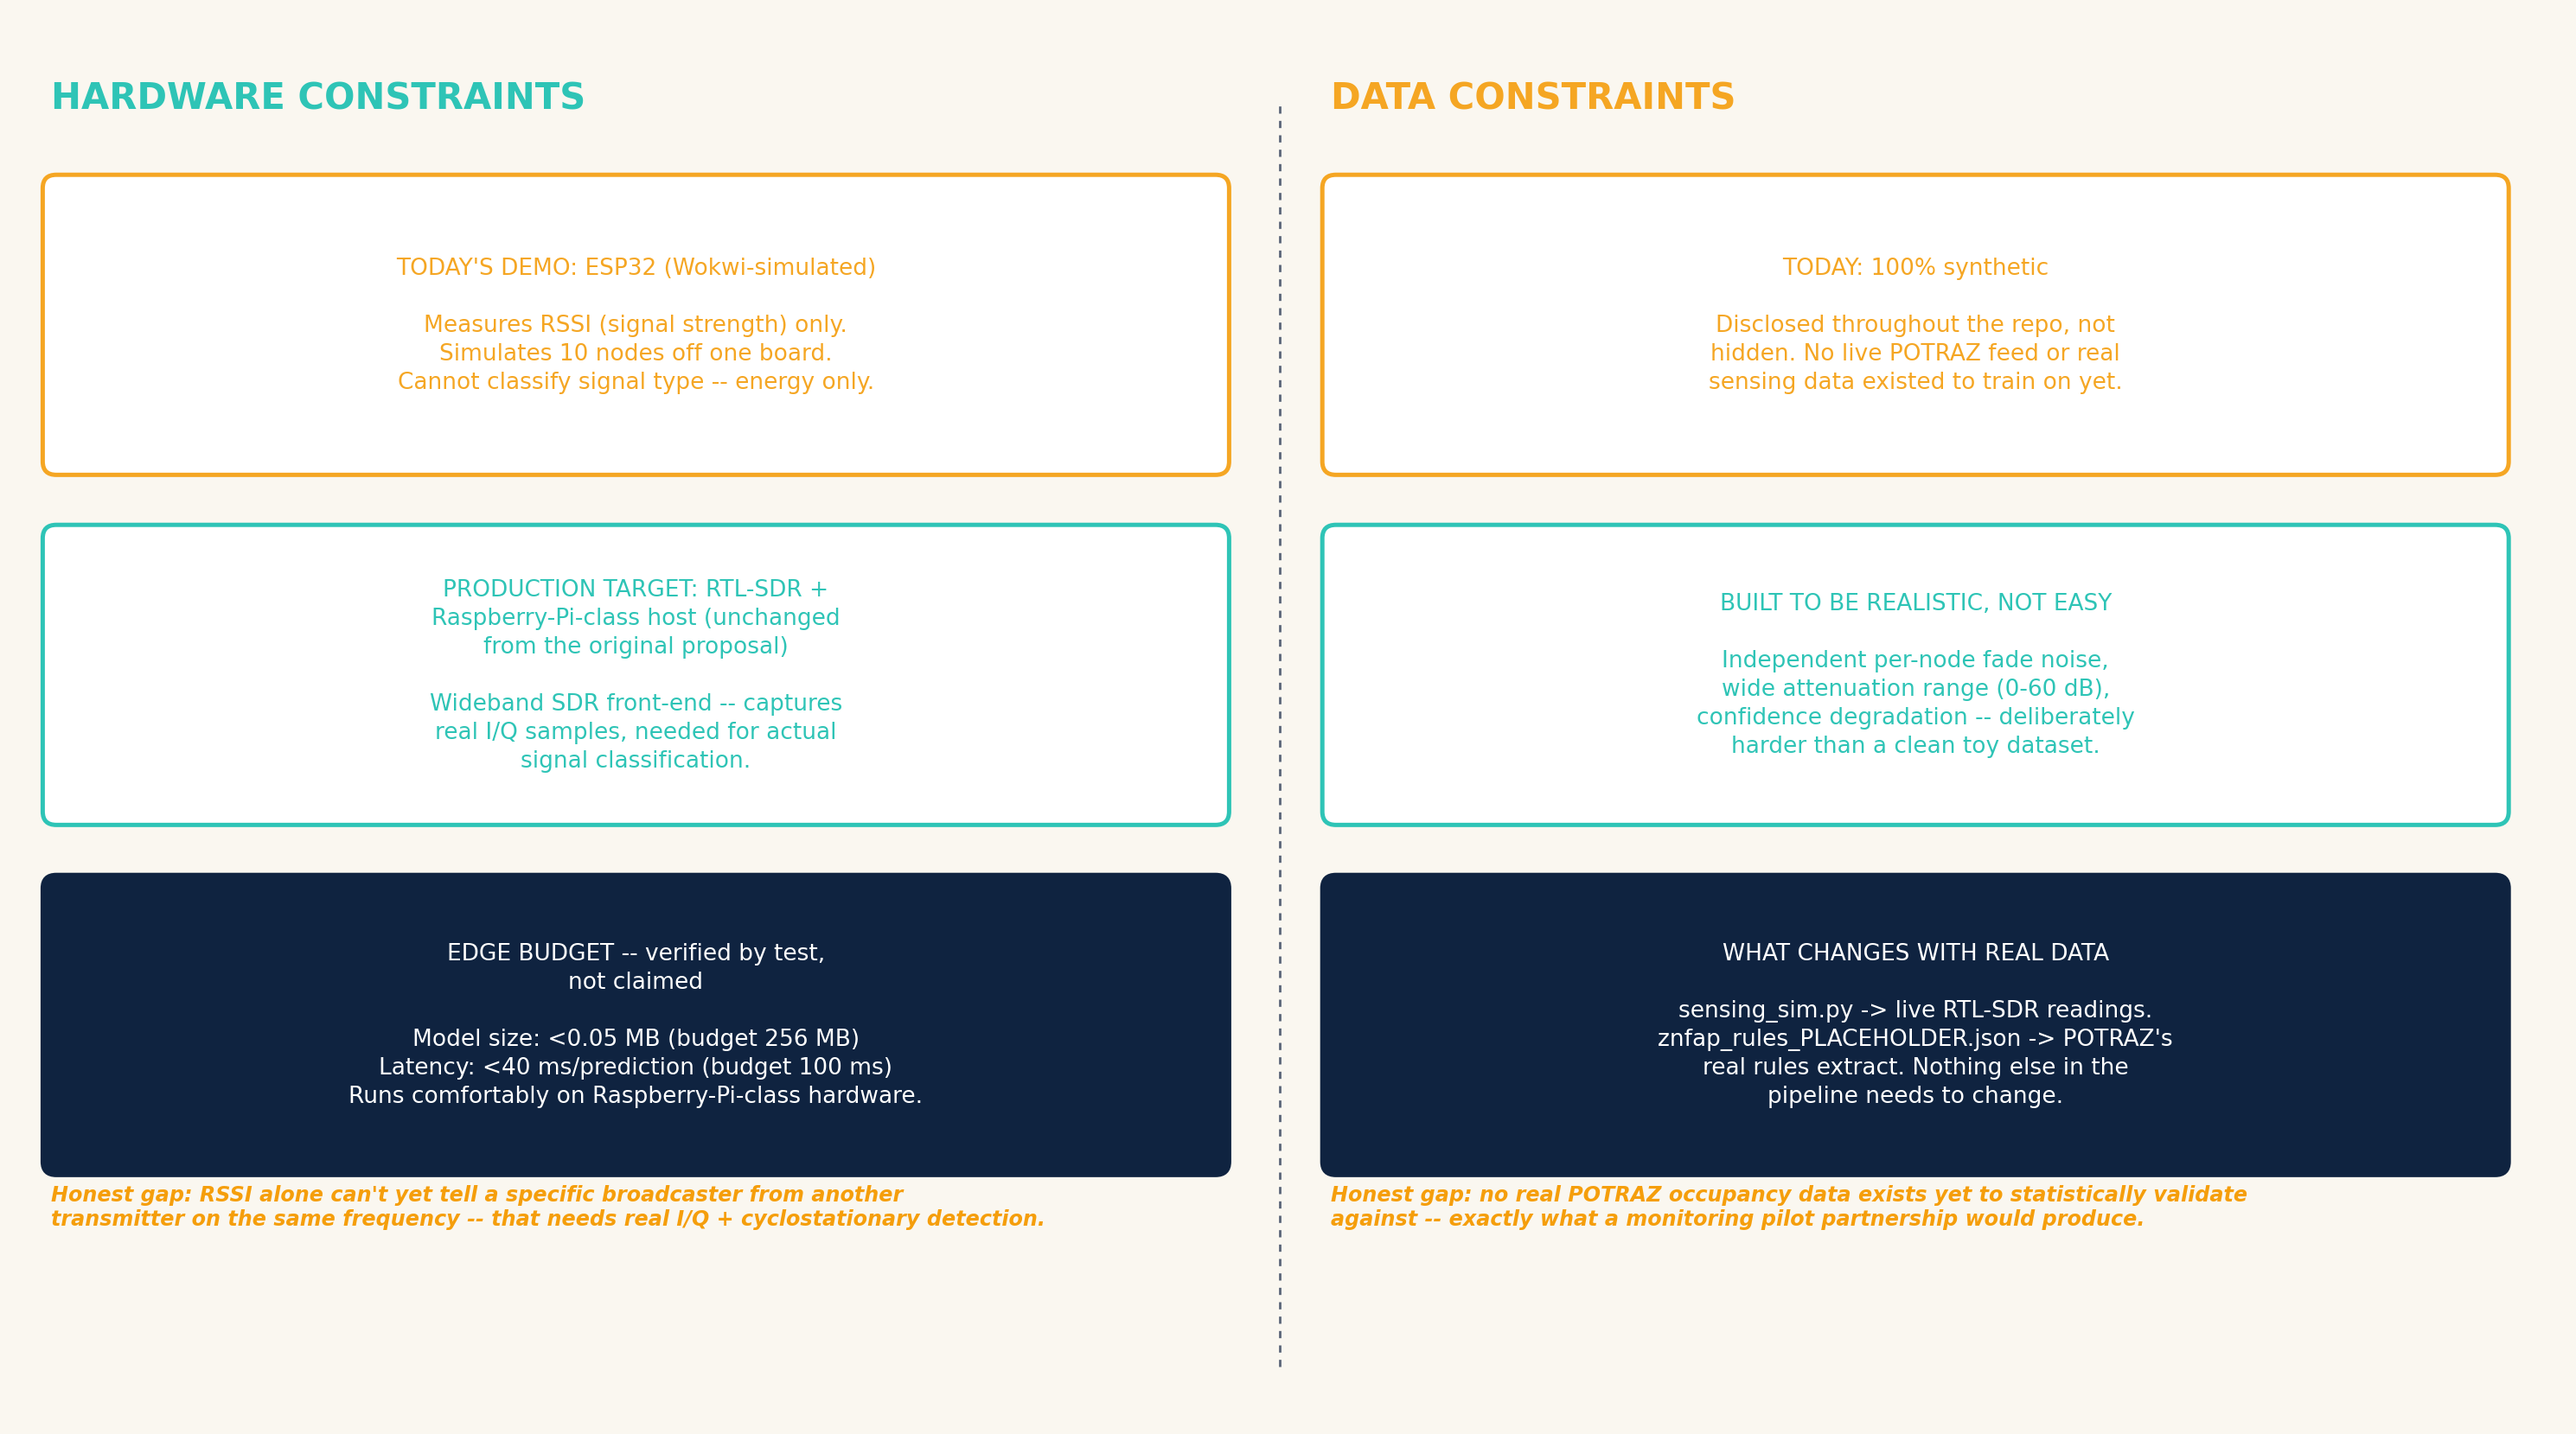
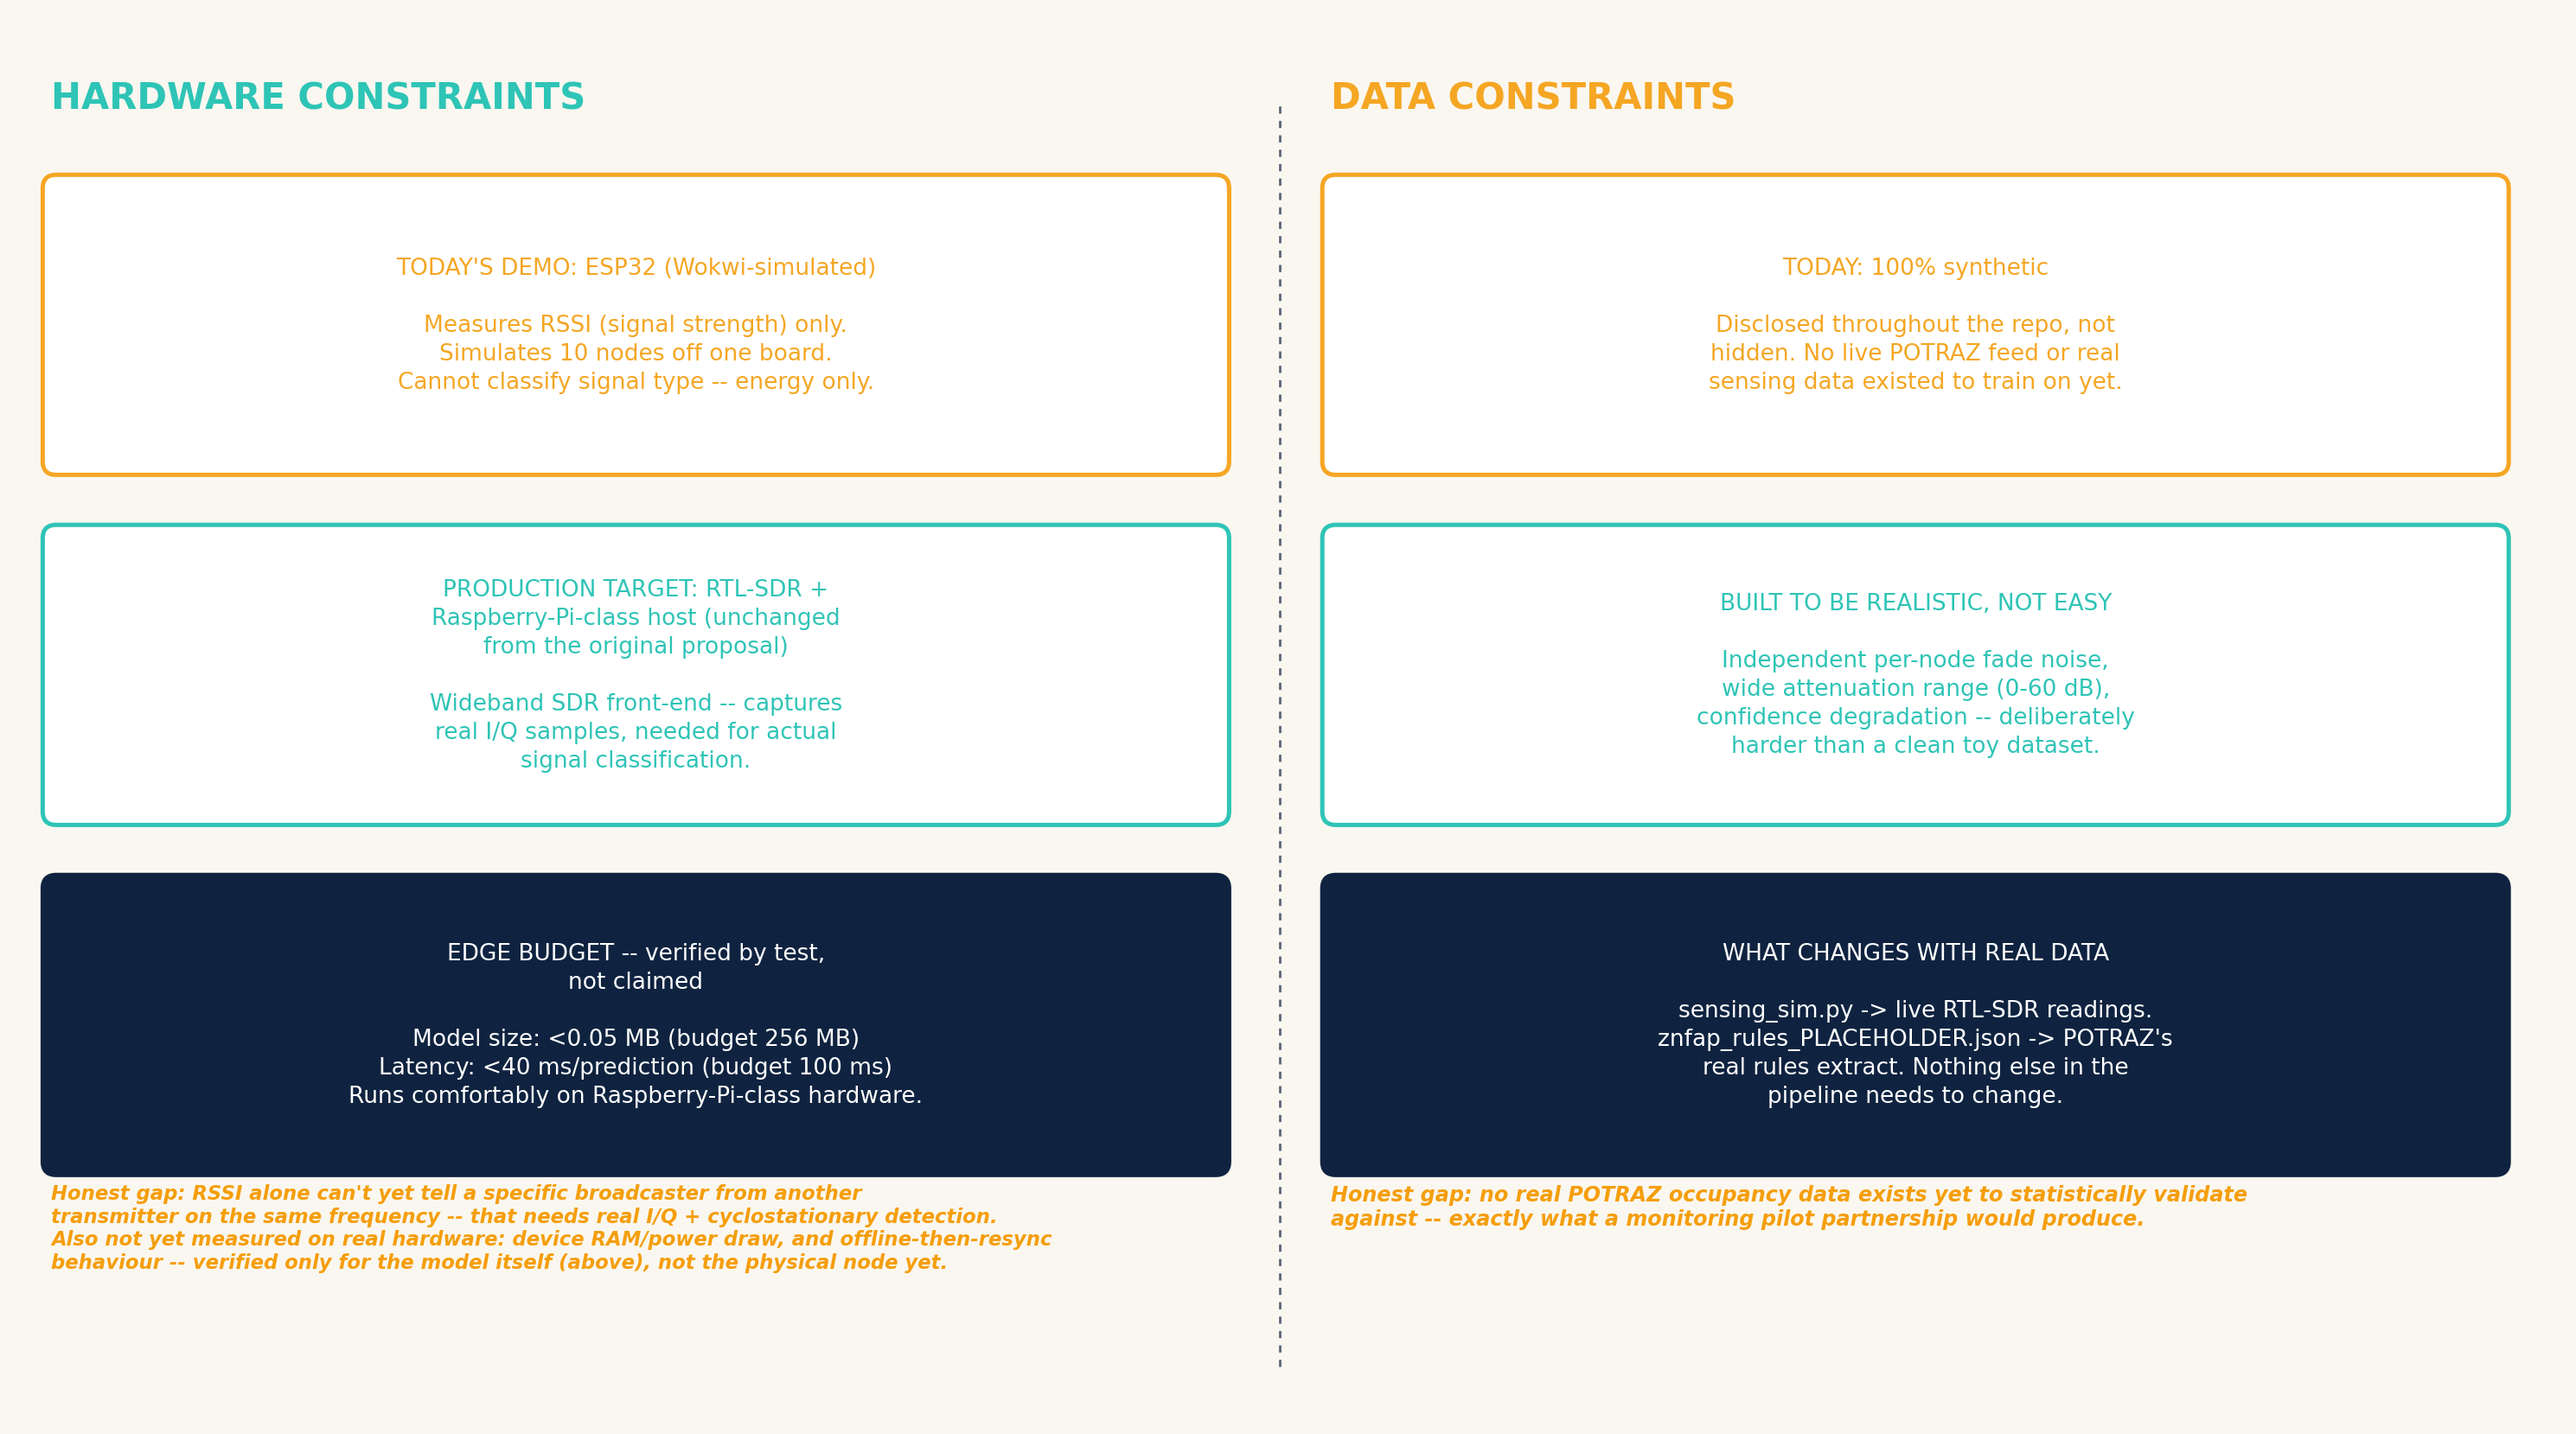
Fix inconsistencies found in pre-submission Track 3 evidence audit
deployment_plan.md's milestones said "constraint engine live-deciding real
access grants, anchor institution connected" -- leftover grant/deny framing
that directly contradicted business_model.md's success metrics (which
explicitly say not to claim that outcome). Both now match.

risk_compliance_checklist.md's Authentication/Encryption rows were stale --
written before the live VPS pipeline existed, so they said "not yet
implemented" when MQTT auth already is; corrected to describe what's
actually live vs. still pending, and recorded a git-history secrets scan
that was actually run (no real password ever committed), not just planned.

DATASET_STATEMENT.md gets an explicit Rights section (wholly own-generated,
no third-party data). constraints_diagram.png gets an honest, non-fabricated
disclosure that device RAM/power and offline-resync behaviour haven't been
measured on real hardware yet -- only the model itself has a verified edge
budget.

Changed region(s): [[0.0, 0.83, 0.4058, 0.8915]]

diff --git a/docs/make_constraints_diagram.py b/docs/make_constraints_diagram.py
@@ -56,10 +56,12 @@ box(0.2, 1.5, 6.9, 1.7,
     "Runs comfortably on Raspberry-Pi-class hardware.",
     face=SURFACE, edge=SURFACE, text_color="white", fontsize=9.5)
 
-ax.text(0.2, 1.15,
+ax.text(0.2, 1.4,
     "Honest gap: RSSI alone can't yet tell a specific broadcaster from another\n"
-    "transmitter on the same frequency -- that needs real I/Q + cyclostationary detection.",
-    fontsize=8.6, color=AMBER, weight="bold", style="italic")
+    "transmitter on the same frequency -- that needs real I/Q + cyclostationary detection.\n"
+    "Also not yet measured on real hardware: device RAM/power draw, and offline-then-resync\n"
+    "behaviour -- verified only for the model itself (above), not the physical node yet.",
+    fontsize=8.2, color=AMBER, weight="bold", style="italic", va="top")
 
 # ============ RIGHT: DATA CONSTRAINTS ============
 ax.text(7.75, 7.85, "DATA CONSTRAINTS", fontsize=15, weight="bold", color=GOLD)

diff --git a/docs/risk_compliance_checklist.md b/docs/risk_compliance_checklist.md
@@ -5,9 +5,9 @@
 | Data minimisation | System collects only RF energy-detection readings (RSSI, timestamp, node/channel ID) -- no personal data of any kind. |
 | Consent | Not applicable to the sensing layer (no personal data). Anchor-institution pilot participation will follow standard institutional consent/agreement processes. |
 | Access control | Dashboard/audit access restricted to POTRAZ and the operating team; role separation planned for the real pilot (admin vs. read-only regulator view). |
-| Authentication | Not yet implemented in the simulated prototype (no external users in the demo); required before any real pilot deployment -- documented as a pre-pilot task, not glossed over. |
-| Secrets management | No credentials committed to this repository; `.env.example` documents required variables without values. |
-| Encryption | Real-pilot data-in-transit (sensing node -> ZCHPC CCE) will use TLS; not applicable to the current fully-local synthetic demo. |
+| Authentication | Synthetic prototype: not applicable (no external users, fully local). Live Phase-1 pipeline: username/password authentication is already implemented on the MQTT broker connection (`MQTT_USER`/`MQTT_PASS`, see `phase1/README.md`'s interface contract) -- the dashboard itself has no login, by design, since it's meant to be publicly viewable by judges. Role-separated regulator access (admin vs. read-only) is a real pilot pre-requisite, not yet built. |
+| Secrets management | No credentials committed to this repository -- checked directly, not assumed: `git log -p --all` across the full history turns up only the placeholder `CHANGE_ME_NODE_PASSWORD`/`.env.example` templates, never a real MQTT or DB password. `.env.example` (root and `phase1/vps/`) document required variables without values. |
+| Encryption | Synthetic prototype: not applicable, fully local, no network traffic. Live Phase-1 pipeline today: MQTT traffic to the VPS is authenticated but **not yet TLS-encrypted in transit** -- an honest, disclosed gap for a bootcamp demo on non-sensitive RF energy readings, not something to claim as solved. Real-pilot data-in-transit (sensing node -> ZCHPC CCE) will use TLS before any production deployment. |
 | Auditability | Every access decision is logged with its full justification (`src/constraint_engine.py::Decision.to_dict`) -- see the dashboard's audit log expander. |
 | Human oversight | POTRAZ retains a manual override/kill-switch over any node, channel, or the whole network at all times (proposal Section 5); the rules layer is human-authored and human-editable, not learned. |
 | Misuse risk | Primary misuse risk is interference with licensed broadcasters if the constraint engine's veto were bypassed -- mitigated architecturally (rules layer checked first, unconditionally, before ML is consulted; see `test_constraint_engine.py`). |

diff --git a/docs/deployment_plan.md b/docs/deployment_plan.md
@@ -12,4 +12,4 @@
 | Backup and recovery | Time-series occupancy data and audit log backed up on a defined schedule; constraint-engine rules configuration (`data/znfap_rules_PLACEHOLDER.json` and its real-data successor) version-controlled so any change is reviewable and reversible. |
 | Connectivity plan | Sensing nodes report over available local connectivity (Wi-Fi/cellular backhaul at the pilot site); designed to degrade safely (fail-safe-off, see `constraint_engine.py`) if a node loses connectivity rather than failing open. |
 | Scale pathway | Phase 1 (single community, 6-10 nodes) -> Phase 2 (geographic expansion, ZNFAP-as-API published for reuse by other POTRAZ-approved tools) -> national coverage, per proposal Section 6. |
-| Milestones | 0-30 days: sensing nodes deployed at pilot site, dashboard showing real (not simulated) data. 31-60 days: constraint engine live-deciding real access grants, anchor institution connected. 61-90 days: adoption case documented, scale plan refined with POTRAZ. |
+| Milestones | 0-30 days: sensing nodes deployed at pilot site, dashboard live with real (not simulated) utilization data. 31-60 days: fusion model classifying real readings, real utilization/anomaly dataset accumulating, zero missed-flag incidents against known ground truth. 61-90 days: a real utilization/compliance case reviewed with POTRAZ, scale plan agreed for additional sites -- **not** "anchor institution connected," since that outcome depends on POTRAZ's own separate decision to act on the verified data, not on MASAISAI directly (matches `business_model.md`'s success metrics -- kept identical on purpose so the two docs can't be caught contradicting each other). |

diff --git a/data/DATASET_STATEMENT.md b/data/DATASET_STATEMENT.md
@@ -65,6 +65,13 @@ suite:
   inspected directly and are well-distributed across several features, not dominated by one
   proxy -- see `src/occupancy_model.py`'s module docstring.
 
+## Rights
+
+Wholly generated by this team's own `src/sensing_sim.py` -- no third-party dataset, scraped
+data, or POTRAZ-supplied data is used or redistributed here, so no external rights or
+licensing encumbrance applies. This repository (including the generator and its output) is
+MIT-licensed, same as the rest of the codebase (see `LICENSE`).
+
 ## What changes for the real pilot
 
 Under the regulatory sandbox arrangement described in the proposal, this generator is
